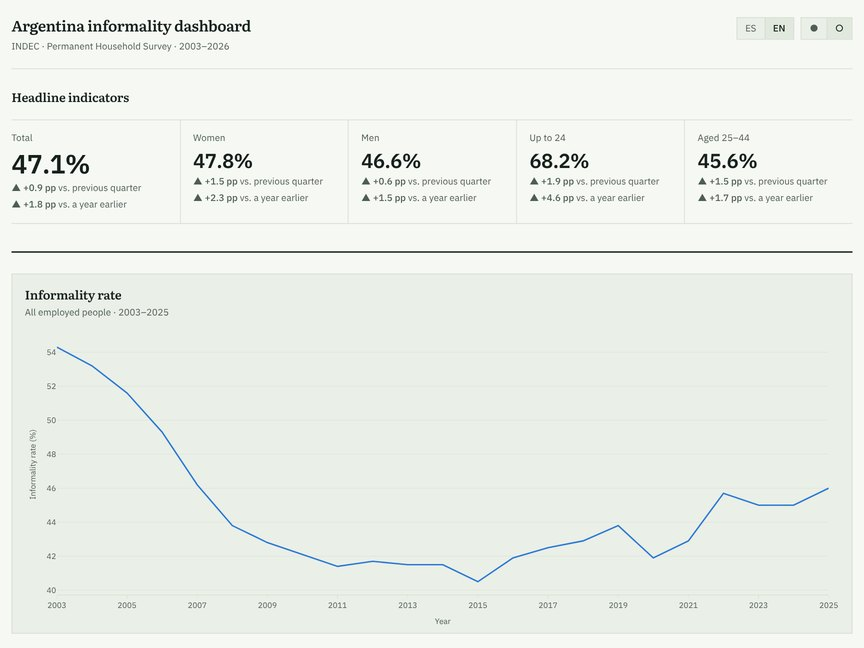
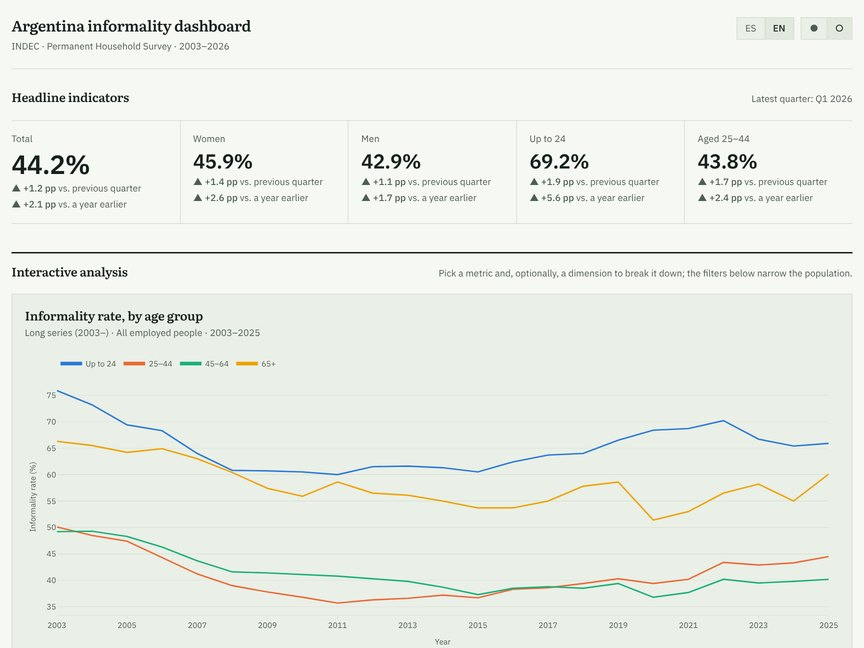
Informality dashboard: long series by default, overlay behind a button
Drop the measure toggle. Headline indicators, sector ranking and map use
INDEC's new methodology; the interactive chart uses the long series, with a
highlighted button to overlay the new methodology. New thumbnail by age group.

Claude-Session: https://claude.ai/code/session_011xg8mkMzn8s4egoguxjbpc

diff --git a/assets/dashboards/argentina_informality_dashboard.html b/assets/dashboards/argentina_informality_dashboard.html
@@ -81,6 +81,15 @@ body.is-embedded .bar{display:none}
 .sect__note{font-family:var(--sans);font-size:var(--fs-s);color:var(--ink-soft);margin:0}
 
 /* --- KPI strip --- */
+.ovbtn{display:inline-flex;align-items:center;gap:.5rem;font-family:var(--sans);font-size:var(--fs-s);
+  font-weight:500;color:var(--green);background:var(--paper);border:1.5px solid var(--green);
+  padding:.38rem .8rem;cursor:pointer;line-height:1.3;white-space:nowrap}
+.ovbtn:hover{background:var(--paper-3)}
+.ovbtn__sw{width:1.4rem;border-top:2px dotted currentColor}
+.ovbtn[aria-pressed="true"]{background:var(--green);color:var(--paper)}
+.ovbtn[aria-pressed="true"] .ovbtn__sw{border-top-style:dotted}
+.ovbtn:disabled{opacity:.45;cursor:not-allowed}
+.meth{font-family:var(--sans);font-size:var(--fs-s);color:var(--ink-soft);margin:-.4rem 0 .9rem}
 .meas{display:flex;flex-wrap:wrap;align-items:center;gap:.5rem 1rem;padding:.2rem 0 1rem;
   font-family:var(--sans);font-size:var(--fs-s);color:var(--ink-soft)}
 .meas__lab{font-size:.7rem;font-weight:500;text-transform:uppercase;letter-spacing:.055em}
@@ -266,14 +275,7 @@ table.data .sw{display:inline-block;width:.55rem;height:.55rem;border-radius:50%
       <h2 class="sect__title" id="kpiH" data-t="kpi_title">Indicadores principales</h2>
       <p class="sect__note" data-t="kpi_note" id="kpiNote"></p>
     </div>
-    <div class="meas">
-      <span class="meas__lab" data-t="measure">Medida</span>
-      <div class="seg" role="group" aria-label="Measure" id="measSeg">
-        <button type="button" data-meas="1" aria-pressed="true" data-t="meas_1">Metodología nueva INDEC</button>
-        <button type="button" data-meas="2" aria-pressed="false" data-t="meas_2">Serie larga</button>
-      </div>
-      <p class="meas__note" id="measNote"></p>
-    </div>
+    <p class="meth" data-t="kpi_meth"></p>
     <div class="kpis" id="kpis"></div>
   </section>
 
@@ -331,6 +333,8 @@ table.data .sw{display:inline-block;width:.55rem;height:.55rem;border-radius:50%
           <h3 class="plot-title" id="plotTitle"></h3>
           <p class="plot-sub" id="plotSub"></p>
         </div>
+        <button type="button" class="ovbtn" id="btnOver" aria-pressed="false">
+          <span class="ovbtn__sw" aria-hidden="true"></span><span id="btnOverTxt"></span></button>
       </div>
       <p class="warn" id="warnBox" hidden></p>
       <p class="plotmsg" id="mainMsg" hidden></p>
@@ -427,6 +431,14 @@ const T = {
   overlay_name:{es:"metodología nueva INDEC",en:"new INDEC methodology"},
   overlay_note:{es:"Línea punteada: metodología nueva de INDEC, desde el primer año completo en que existe (2024). La distancia con la serie larga es de medición, no un cambio en la informalidad.",
                 en:"Dotted line: INDEC's new methodology, from the first full year it exists (2024). The gap to the long series reflects measurement, not a change in informality."},
+  kpi_meth:{es:"Con la metodología nueva de INDEC (vigente desde el 4.º trimestre de 2023), la misma de sus informes.",
+            en:"Using INDEC's new methodology (in force since Q4 2023), the one in its own reports."},
+  geo_meth:{es:"Metodología nueva INDEC · ",en:"New INDEC methodology · "},
+  over_on:{es:"Superponer metodología nueva INDEC",en:"Overlay new INDEC methodology"},
+  over_off:{es:"Quitar metodología nueva INDEC",en:"Remove new INDEC methodology"},
+  over_na:{es:"La superposición está disponible para la tasa de informalidad en líneas o paneles.",
+           en:"The overlay is available for the informality rate as lines or panels."},
+  chart_meth:{es:"Serie larga (2003–)",en:"Long series (2003–)"},
   meas_note_1:{es:"La metodología que INDEC usa desde el 4.º trimestre de 2023: coincide con sus informes. Para ver la evolución desde 2003, elegí la serie larga.",
                en:"The methodology INDEC has used since Q4 2023: it matches INDEC's reports. For the trend since 2003, switch to the long series."},
   meas_note_2:{es:"Mismo criterio que la metodología nueva, calculado con preguntas que están en la encuesta desde 2003. Queda unos 3 puntos por encima; en el gráfico se superponen las dos desde que existe la nueva, en vez de empalmarlas.",
@@ -481,8 +493,8 @@ const T = {
   informality_info:{es:"Definición de informalidad",en:"Definition of informal employment"},
   data_availability_notes:{es:"Disponibilidad de datos",en:"Data availability"},
   informality_definition:{
-    es:"Las dos medidas siguen el criterio del <strong>puesto de trabajo</strong> (17.ª CIET). Un <strong>asalariado</strong> es informal si no le hacen descuentos jubilatorios; los <strong>trabajadores familiares sin remuneración</strong> son informales siempre; un <strong>patrón o cuentapropista</strong> es informal si su actividad no está registrada.<br><br><strong>Metodología nueva INDEC</strong>: el algoritmo de la Metodología INDEC N.º 43, que para patrones y cuentapropistas usa preguntas sobre aportes, inscripción y facturación incorporadas al cuestionario en el 4.º trimestre de 2023. Reproduce las tasas que publica INDEC.<br><strong>Serie larga</strong>: para patrones y cuentapropistas aproxima ese registro con preguntas que la encuesta hace desde 2003, de modo que la regla no cambia en toda la serie. Queda unos 3 puntos por encima de la metodología nueva (unos 11 entre los independientes; casi nada entre los asalariados, donde las dos usan la misma pregunta). Por eso no se empalman: en la serie larga el gráfico muestra las dos superpuestas desde 2024.",
-    en:"Both measures follow the <strong>job-based</strong> criterion (17th ICLS). An <strong>employee</strong> is informal without pension contributions; <strong>unpaid family workers</strong> are always informal; an <strong>employer or own-account worker</strong> is informal if the activity is not registered.<br><br><strong>New INDEC methodology</strong>: the algorithm in INDEC Methodology No. 43, which for employers and own-account workers relies on questions on contributions, registration and invoicing added to the questionnaire in Q4 2023. It reproduces INDEC's published rates.<br><strong>Long series</strong>: approximates that registration with questions asked since 2003, so the rule never changes along the series. It sits about 3 points above the new methodology (about 11 among the self-employed; almost nothing among employees, where both use the same question). So they are not spliced: in the long series the chart overlays both from 2024."},
+    es:"Las dos medidas siguen el criterio del <strong>puesto de trabajo</strong> (17.ª CIET). Un <strong>asalariado</strong> es informal si no le hacen descuentos jubilatorios; los <strong>trabajadores familiares sin remuneración</strong> son informales siempre; un <strong>patrón o cuentapropista</strong> es informal si su actividad no está registrada.<br><br><strong>Metodología nueva INDEC</strong>: el algoritmo de la Metodología INDEC N.º 43, que para patrones y cuentapropistas usa preguntas sobre aportes, inscripción y facturación incorporadas al cuestionario en el 4.º trimestre de 2023. Reproduce las tasas que publica INDEC.<br><strong>Serie larga</strong>: para patrones y cuentapropistas aproxima ese registro con preguntas que la encuesta hace desde 2003, de modo que la regla no cambia en toda la serie. Queda unos 3 puntos por encima de la metodología nueva (unos 11 entre los independientes; casi nada entre los asalariados, donde las dos usan la misma pregunta). Por eso no se empalman. Los indicadores principales, el ranking por sector y el mapa usan la metodología nueva; el análisis interactivo usa la serie larga y permite superponer la nueva desde 2024.",
+    en:"Both measures follow the <strong>job-based</strong> criterion (17th ICLS). An <strong>employee</strong> is informal without pension contributions; <strong>unpaid family workers</strong> are always informal; an <strong>employer or own-account worker</strong> is informal if the activity is not registered.<br><br><strong>New INDEC methodology</strong>: the algorithm in INDEC Methodology No. 43, which for employers and own-account workers relies on questions on contributions, registration and invoicing added to the questionnaire in Q4 2023. It reproduces INDEC's published rates.<br><strong>Long series</strong>: approximates that registration with questions asked since 2003, so the rule never changes along the series. It sits about 3 points above the new methodology (about 11 among the self-employed; almost nothing among employees, where both use the same question). So they are not spliced. Headline indicators, the sector ranking and the map use the new methodology; the interactive analysis uses the long series and can overlay the new one from 2024."},
   availability_body:{
     es:"Los indicadores principales son <strong>trimestrales</strong> y llegan al último trimestre publicado. El resto del panel usa <strong>promedios anuales</strong> de años completos: el año en curso entra cuando sale su 4.º trimestre. En la serie larga, 2003 (sólo el 2.º semestre), 2007, 2015 y 2016 promedian menos trimestres porque esas bases no existen. Los ingresos son los de la ocupación principal, en <strong>pesos constantes</strong> del período indicado en el eje. Las celdas con menos de 30 observaciones se marcan como imprecisas y las de menos de 10 no se muestran.",
     en:"Headline indicators are <strong>quarterly</strong> and run to the latest published quarter. The rest of the dashboard uses <strong>annual averages</strong> of complete years: the current year enters once its fourth quarter is out. In the long series, 2003 (second half only), 2007, 2015 and 2016 average fewer quarters because those files do not exist. Incomes are from the main job, in <strong>constant pesos</strong> of the period shown on the axis. Cells with fewer than 30 observations are flagged as imprecise and those with fewer than 10 are not shown."},
@@ -557,7 +569,12 @@ let geo = null;
 let picked = {};              // param -> Set of selected values
 let lastRows = null;          // for CSV / table
 let lastForm = "";            // chart-form signature; see reactOrRedraw()
-let meas = 1;                 // 1 = official INDEC, 2 = long series
+/* Headline indicators, sector ranking and map use the new INDEC methodology
+   (v=1); the interactive chart uses the long series (v=2), with the new
+   methodology as an optional overlay. */
+const meas = 1;               // measure for KPIs, sector and map
+const CHART_V = 2;            // measure for the interactive chart
+let showOver = false;         // overlay of v=1 on the chart
 let geoView = "level";        // "level" | "change"
 let meta = null;
 const embedded = (function(){ try { return window.self !== window.top; } catch(e){ return true; } })();
@@ -723,7 +740,7 @@ function currentSel(){
   };
 }
 async function rowsForSelection(s, m){
-  if(m===undefined) m = meas;
+  if(m===undefined) m = CHART_V;
   const cols = METRIC_COLS[s.metric];
   if(s.param==="all"){
     const sh = await load("base");
@@ -824,7 +841,7 @@ function subTitle(s){
   if(s.r!==99) bits.push(L.r[lang][s.r]);
   if(s.c!==99) bits.push(L.c[lang][s.c]);
   const who = bits.length ? bits.join(" · ") : (lang==="es"?"Todas las personas ocupadas":"All employed people");
-  return who + " · " + s.from + "–" + s.to;
+  return t("chart_meth") + " · " + who + " · " + s.from + "–" + s.to;
 }
 
 function showMsg(text){
@@ -842,7 +859,12 @@ async function render(){
     /* Long series + rate: overlay the new INDEC methodology wherever it exists,
        as a dotted line in the same colour, instead of splicing the two. */
     let over = null;
-    if(meas===2 && s.metric==="tasa_informalidad" && s.type!=="bar"){
+    const canOver = s.metric==="tasa_informalidad" && s.type!=="bar";
+    const bo = $("#btnOver");
+    bo.disabled = !canOver; bo.title = canOver ? "" : t("over_na");
+    bo.setAttribute("aria-pressed", String(showOver && canOver));
+    $("#btnOverTxt").textContent = (showOver && canOver) ? t("over_off") : t("over_on");
+    if(showOver && canOver){
       const o = await rowsForSelection(s, 1);
       over = pivot(o.sh, o.idx, o.brkCol, o.cols, s.from, s.to).groups;
       if(!Array.from(over.values()).some(g=>Object.keys(g).length)) over = null;
@@ -1042,7 +1064,7 @@ async function snapRows(kind){
   return {year:y1, rows, hasPrev:Object.keys(prev).length>0};
 }
 function geoSub(year){
-  return (geoView==="level" ? t("rate_year")+year : t("change_year")+(year-1)+"–"+year);
+  return t("geo_meth") + (geoView==="level" ? t("rate_year").toLowerCase()+year : t("change_year").toLowerCase()+(year-1)+"–"+year);
 }
 /* ---------- sector dot plot ---------- */
 async function renderSector(){
@@ -1209,7 +1231,6 @@ function applyI18n(){
     if(/<[a-z]/i.test(v)) el.innerHTML = v; else el.textContent = v;
   });
   $("#attrib").innerHTML = t("attrib");
-  $("#measNote").textContent = t("meas_note_"+meas);
   setSubtitle();
   $("#btnTable").textContent = $("#tableWrap").hidden ? t("show_table") : t("hide_table");
   $$("[data-lang]").forEach(b=>b.setAttribute("aria-pressed", String(b.dataset.lang===lang)));
@@ -1231,7 +1252,7 @@ function yearsFor(m){
   return out;
 }
 function fillYears(reset){
-  const ys = yearsFor(meas);
+  const ys = yearsFor(CHART_V);
   const keepF = +$("#fFrom").value, keepT = +$("#fTo").value;
   fillSelect($("#fFrom"), ys.map(y=>[y,y]), ys[0]);
   fillSelect($("#fTo"),   ys.map(y=>[y,y]), ys[ys.length-1]);
@@ -1239,12 +1260,6 @@ function fillYears(reset){
   if(!reset && ys.includes(keepT)) $("#fTo").value = keepT;
   // two or three annual points read better as bars than as a line
   if(reset) $("#fType").value = ys.length<=3 ? "bar" : "line";
-}
-function setMeas(m){
-  meas = m;
-  $$("[data-meas]").forEach(b=>b.setAttribute("aria-pressed", String(+b.dataset.meas===meas)));
-  $("#measNote").textContent = t("meas_note_"+meas);
-  fillYears(true); picked = {}; redrawAll();
 }
 function setSubtitle(){
   const md = window._meta; if(!md) return;
@@ -1320,7 +1335,7 @@ function relang(){
   window.addEventListener("resize", postHeight);
   if(window.ResizeObserver) new ResizeObserver(postHeight).observe(document.body);
 
-  $$("[data-meas]").forEach(b=>b.addEventListener("click", ()=>setMeas(+b.dataset.meas)));
+  $("#btnOver").addEventListener("click", ()=>{ showOver = !showOver; render(); });
   $$("[data-view]").forEach(b=>b.addEventListener("click", ()=>{
     geoView = b.dataset.view;
     $$("[data-view]").forEach(x=>x.setAttribute("aria-pressed", String(x.dataset.view===geoView)));

diff --git a/_pipeline/ESTADO.md b/_pipeline/ESTADO.md
@@ -28,8 +28,9 @@ archiva literal en `_archivo/Comentarios_Matias.md` y vuelve a vaciar el bloque.
 > corre solo `master_construccion.do` al final y, si el contraste con INDEC pasa, hace commit + push
 > con `publicar_mapa.ps1`. Dos medidas con selector: **metodología nueva INDEC** (desde 2023T4, reproduce los
 > informes: total, sexo, edad, educación y asalariados a ≤0,2 pp en 2023T4–2026T1) y **serie larga**
-> (2003–); en la serie larga el gráfico superpone la nueva, punteada, desde 2024 (decisión de
-> Matías del 18/10: superponer, no empalmar). Indicadores trimestrales; resto en promedios anuales de años completos (hasta 2025);
+> (2003–). Decisión de Matías del 18/10: indicadores, sector y mapa con la metodología nueva;
+> el análisis interactivo con la serie larga por default y un botón destacado para superponer la
+> nueva (punteada, desde 2024); nunca empalmar. Miniatura: el gráfico por grupo de edad. Indicadores trimestrales; resto en promedios anuales de años completos (hasta 2025);
 > mapa y sector con nivel o cambio interanual. Corregidas las etiquetas cruzadas de las ramas 11
 > (otros servicios) y 12 (servicio doméstico). Miniatura nueva. Para cada trimestre nuevo, Matías
 > sólo carga las cifras de INDEC en `validacion\indec_publicado.csv`.

diff --git a/_pipeline/Changelog.md b/_pipeline/Changelog.md
@@ -22,9 +22,10 @@ final. Orden cronológico inverso (lo más nuevo arriba).*
   pesos constantes del 1T2026; categoría ocupacional con servicio doméstico y familiares sin
   remuneración. **Error corregido**: las etiquetas de las ramas 11 y 12 estaban cruzadas (el
   76,9 % de «otros servicios» era servicio doméstico).
-- **Superposición en vez de empalme** (pedido de Matías): en la serie larga, la tasa trae la
-  metodología nueva de INDEC punteada, del mismo color, desde 2024. «Oficial INDEC» pasó a
-  llamarse «Metodología nueva INDEC».
+- **Superposición en vez de empalme** (pedido de Matías): sin selector de medida. Indicadores,
+  sector y mapa usan la metodología nueva de INDEC; el análisis interactivo usa la serie larga y
+  tiene un botón destacado, apagado por default, que superpone la nueva punteada desde 2024.
+  «Oficial INDEC» pasó a llamarse «Metodología nueva INDEC». Miniatura: gráfico por edad.
 - **Textos**: fuera «central fact» y la frase de las series «programadas para reproducirse»;
   miniatura nueva con la paleta del sitio.
 
